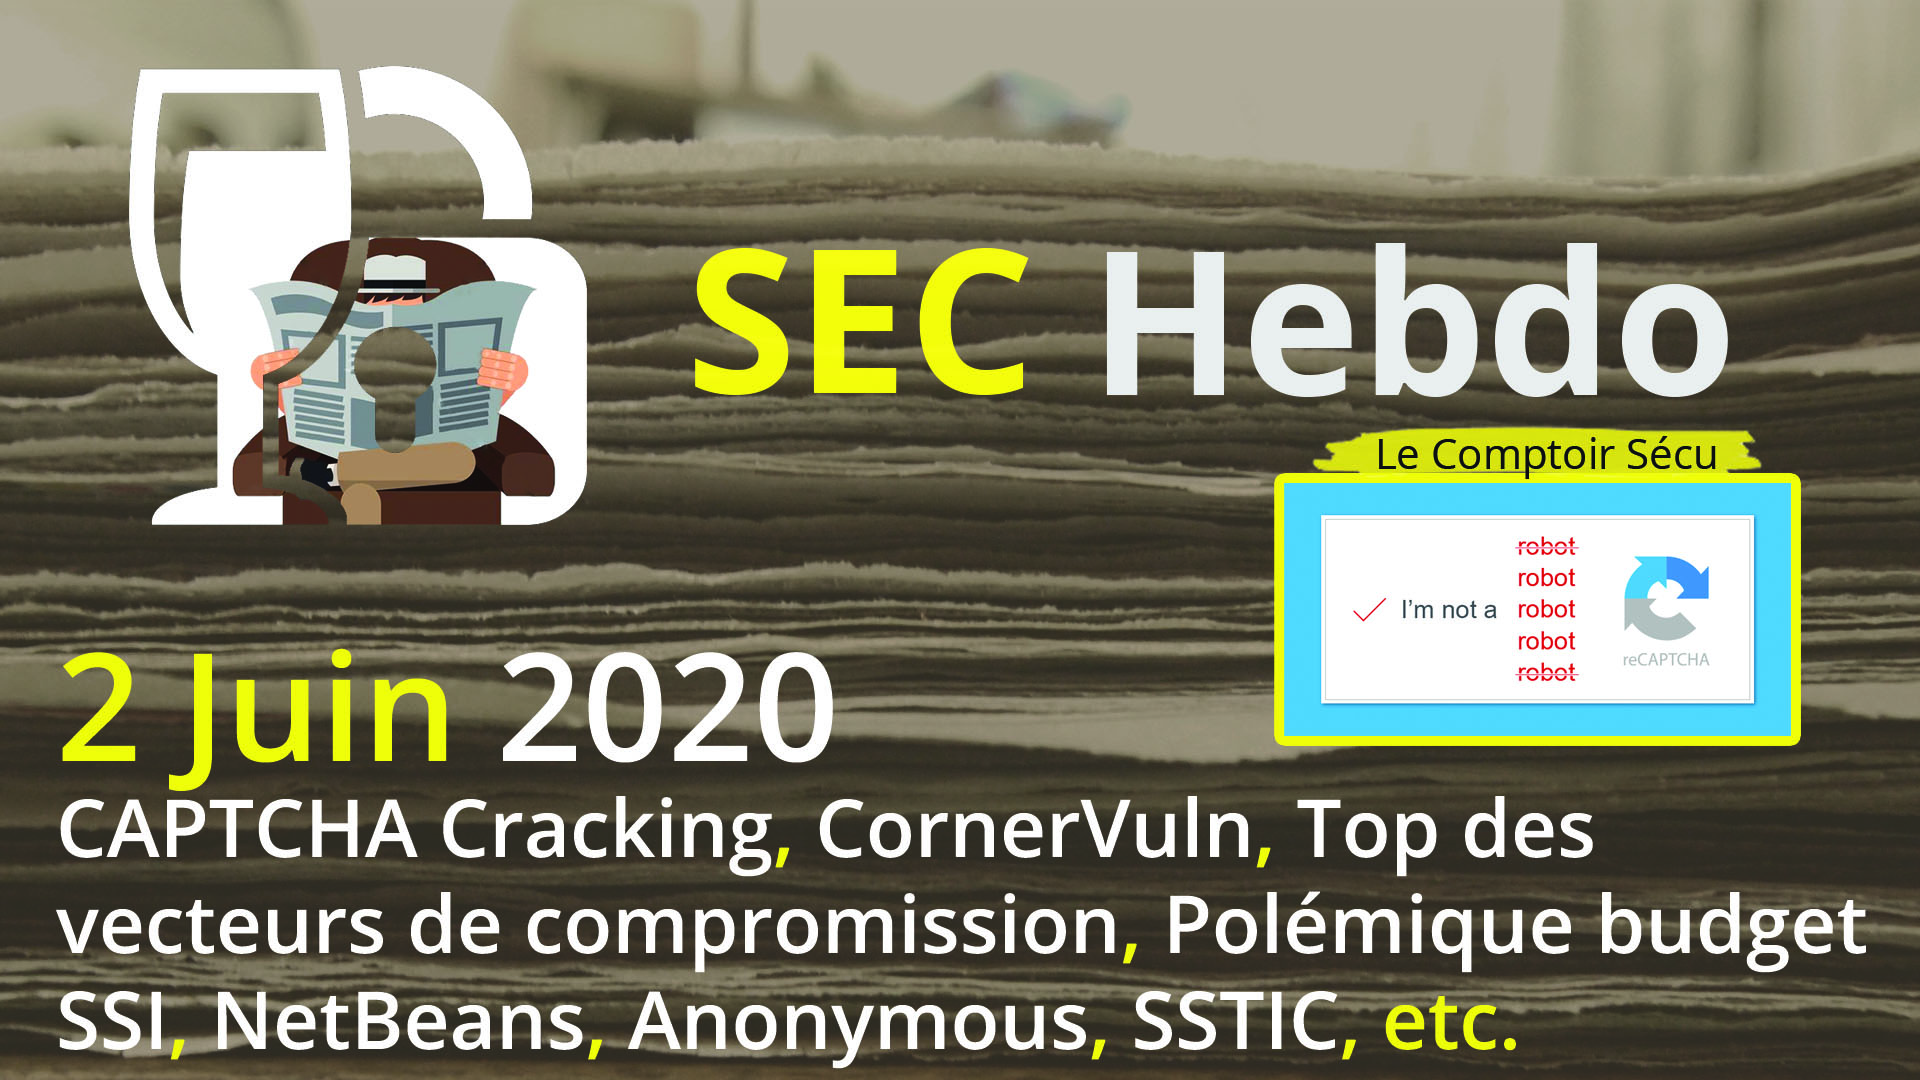
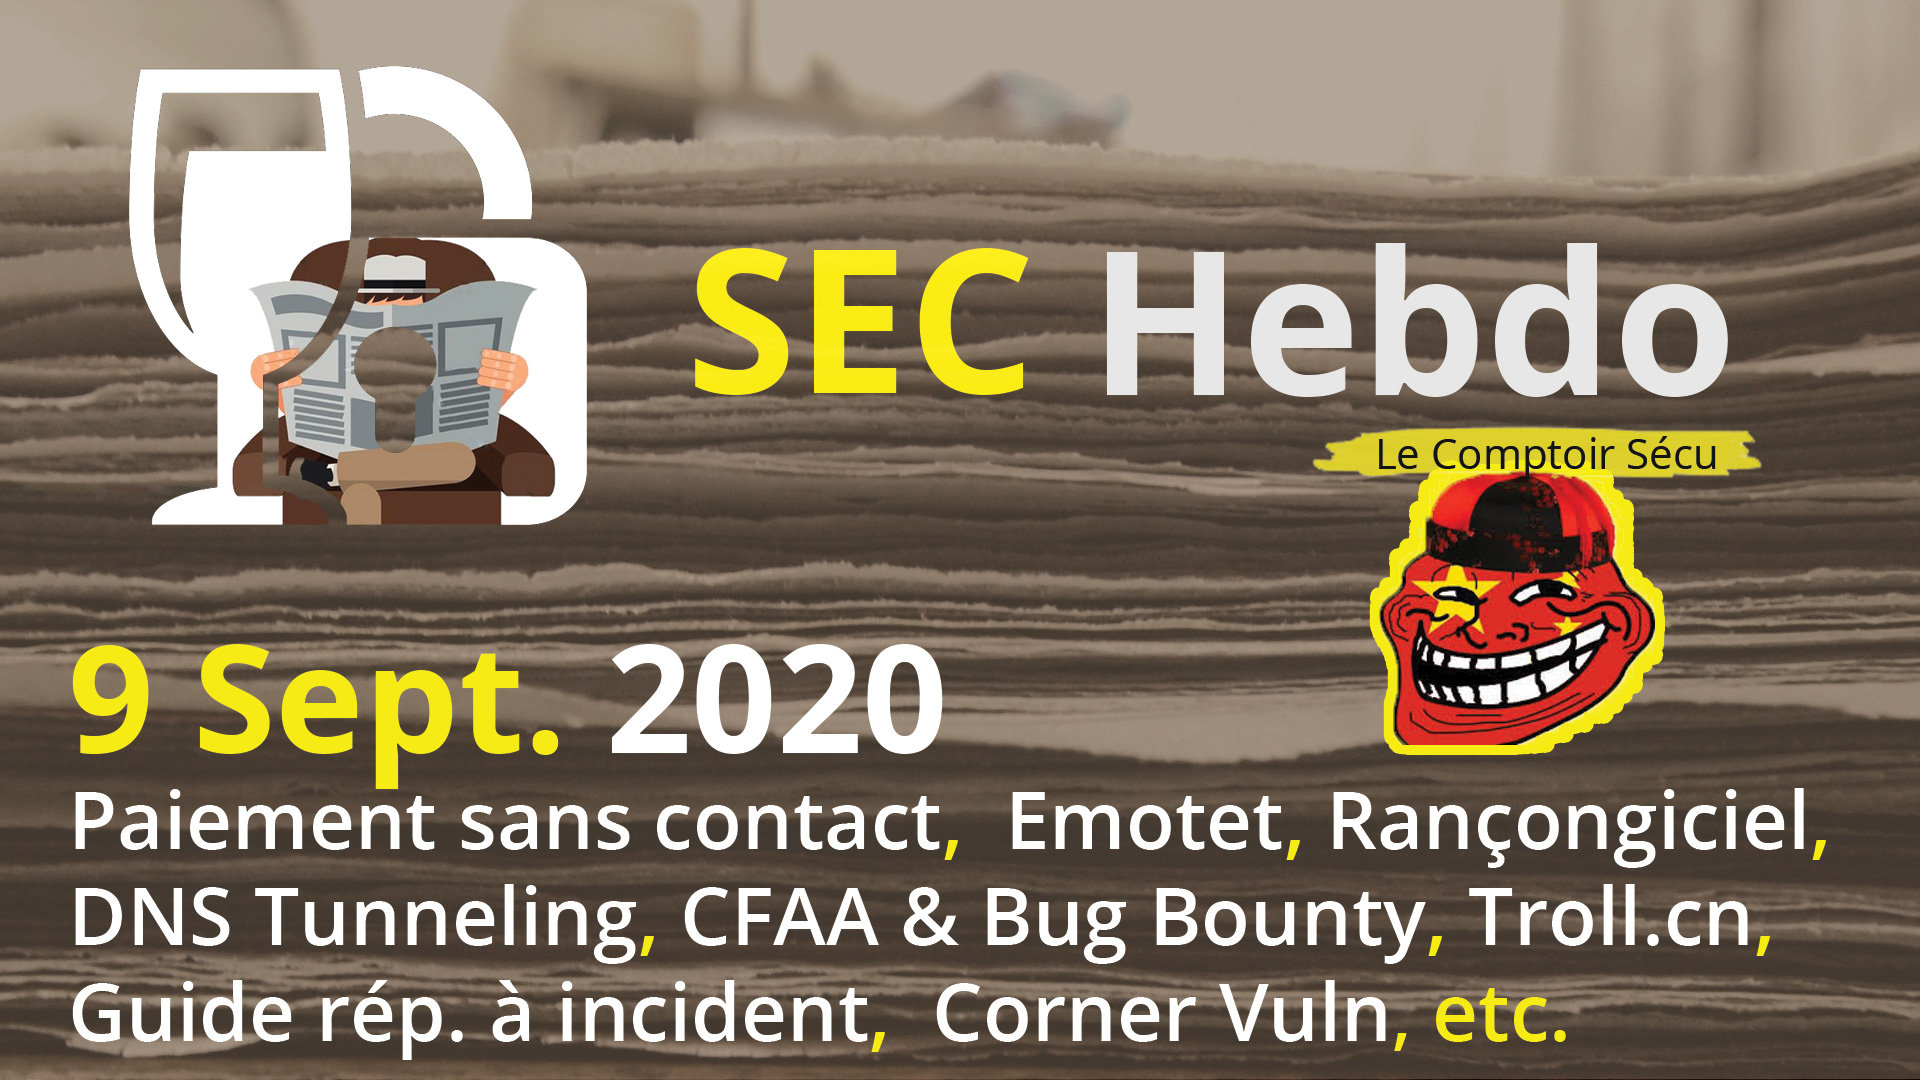
Ep du soir

Changed region(s): [[0.0312, 0.5806, 0.9688, 1.0], [0.6562, 0.3667, 0.9375, 0.7028]]

diff --git a/content/sechebdo/2020-09-09-sechebdo-09-septembre-2020.md b/content/sechebdo/2020-09-09-sechebdo-09-septembre-2020.md
@@ -1,0 +1,68 @@
+---
+title: '[SECHebdo] 09 septembre 2020'
+subheadline: "Paiement sans contact, Emotet, Rançongiciel, DNS Tunnelling, CFAA & Bug Bounty, Troll.cn, Guide rép. à incident, Corner Vuln, etc."
+publisher: comptoirsecu
+date: 2020-09-09
+image:  /images/covers/2020-09-09-sechebdo-vignette.jpg
+podcast:
+    feed: https://podcasts.comptoirsecu.fr/SECHebdo/CSEC.SECHebdo.2020-09-09.m4a
+    description: "Épisode du 09 09 2020 - SECHebdo est une revue de l'actualité cybersécurité réalisée en live sur Youtube, généralement le mardi soir."
+
+categories:
+ - Podcast
+ - SECHebdo
+
+tags:
+ - Chine
+ - Ransomware
+ - DoH
+ - Incident
+
+authors:
+  - swithak
+  - jil
+  - morgan
+  - lois
+  
+chaptermarks:
+  - "00:01:30|Todo"
+
+video: "8KLqLNX-gic"
+---
+
+Nous venons de tourner un nouveau SECHebdo en live sur Youtube. Comme d'habitude, si vous avez raté l'enregistrement, vous pouvez le retrouver sur notre chaîne Youtube (vidéo ci-dessus) ou bien au format podcast audio:
+
+{{< chaptermarks >}}
+
+{{< podigee >}}
+
+Notre discord : <http://discord.comptoirsecu.fr>
+
+A bientôt pour d'autres émissions/podcasts!
+
+### Liste des sources :
+
+
+*  EMV contactless PIN Bypass
+	* [EMV Contactless Payment Card Flaw Facilitates PIN Bypass](https://www.bankinfosecurity.com/emv-contactless-payment-card-flaw-facilitates-pin-bypass-a-14956)
+	* [Demo: Bypassing PIN for a Visa card - YouTube](https://www.youtube.com/watch?v=JyUsMLxCCt8)
+	* [New PIN Verification Bypass Flaw Affects Visa Contactless Payments](https://thehackernews.com/2020/09/emv-payment-card-pin-hacking.html)
+*  Potentiel précédent juridique a l'encontre du responsible disclosure
+	* [Online Voting Startup Wants to Limit Some Security Research](https://www.bankinfosecurity.com/online-voting-startup-wants-to-limit-some-security-research-a-14953)
+*  rapport rançongiels ANSSI
+	* [Rançongiciels : face à l’ampleur de la menace, l’ANSSI et le ministère de la Justice publient un guide pour sensibiliser les entreprises et les collectivités | Agence nationale de la sécurité des systèmes d'information](https://www.ssi.gouv.fr/actualite/rancongiciels-face-a-lampleur-de-la-menace-lanssi-et-le-ministere-de-la-justice-publient-un-guide-pour-sensibiliser-les-entreprises-et-les-collectivites/)
+*  Chine, les trolleurs
+	* [China proposes ‘Global Initiative on Data Security’ forbidding stuff it and Huawei are accused of doing already • The Register](https://www.theregister.com/2020/09/08/china_global_initiative_on_data_security/)
+*  DNS tunnelling over HTTPS through Google.com
+	* [Attackers abuse Google DNS over HTTPS to download malware](https://www.bleepingcomputer.com/news/security/attackers-abuse-google-dns-over-https-to-download-malware/)
+	* [https://blog.huntresslabs.com/hiding-in-plain-sight-part-2-dfec817c036f](https://blog.huntresslabs.com/hiding-in-plain-sight-part-2-dfec817c036f)
+*  Note technique sur la manière de détecter et de réagir aux activités malveillantes
+	* [Technical Approaches to Uncovering and Remediating Malicious Activity | CISA](https://us-cert.cisa.gov/ncas/alerts/aa20-245a)
+*  Emotet
+	* [Cryptolaemus Pastedump](https://paste.cryptolaemus.com/)
+	* [INFO JDD. Le tribunal de Paris a été la cible d'un vaste piratage informatique](https://www.lejdd.fr/Societe/Justice/info-jdd-le-tribunal-de-paris-a-ete-la-cible-dun-vaste-piratage-informatique-3989927)
+	* [Emotet : le monde de la magistrature en alerte maximale](https://www.lemagit.fr/actualites/252488680/Emotet-le-monde-de-la-magistrature-en-alerte-maximale)
+	* [Recrudescence d’activité Emotet en France – CERT-FR](https://www.cert.ssi.gouv.fr/alerte/CERTFR-2020-ALE-019/)
+*  Corner Vuln
+	* [Palo Alto Networks Security Advisories](https://security.paloaltonetworks.com/?q=2020-09-09)
+	* [https://medium.com/@matuzg/testing-docker-cve-scanners-part-2-5-exploiting-cve-scanners-b37766f73005](https://medium.com/@matuzg/testing-docker-cve-scanners-part-2-5-exploiting-cve-scanners-b37766f73005)
